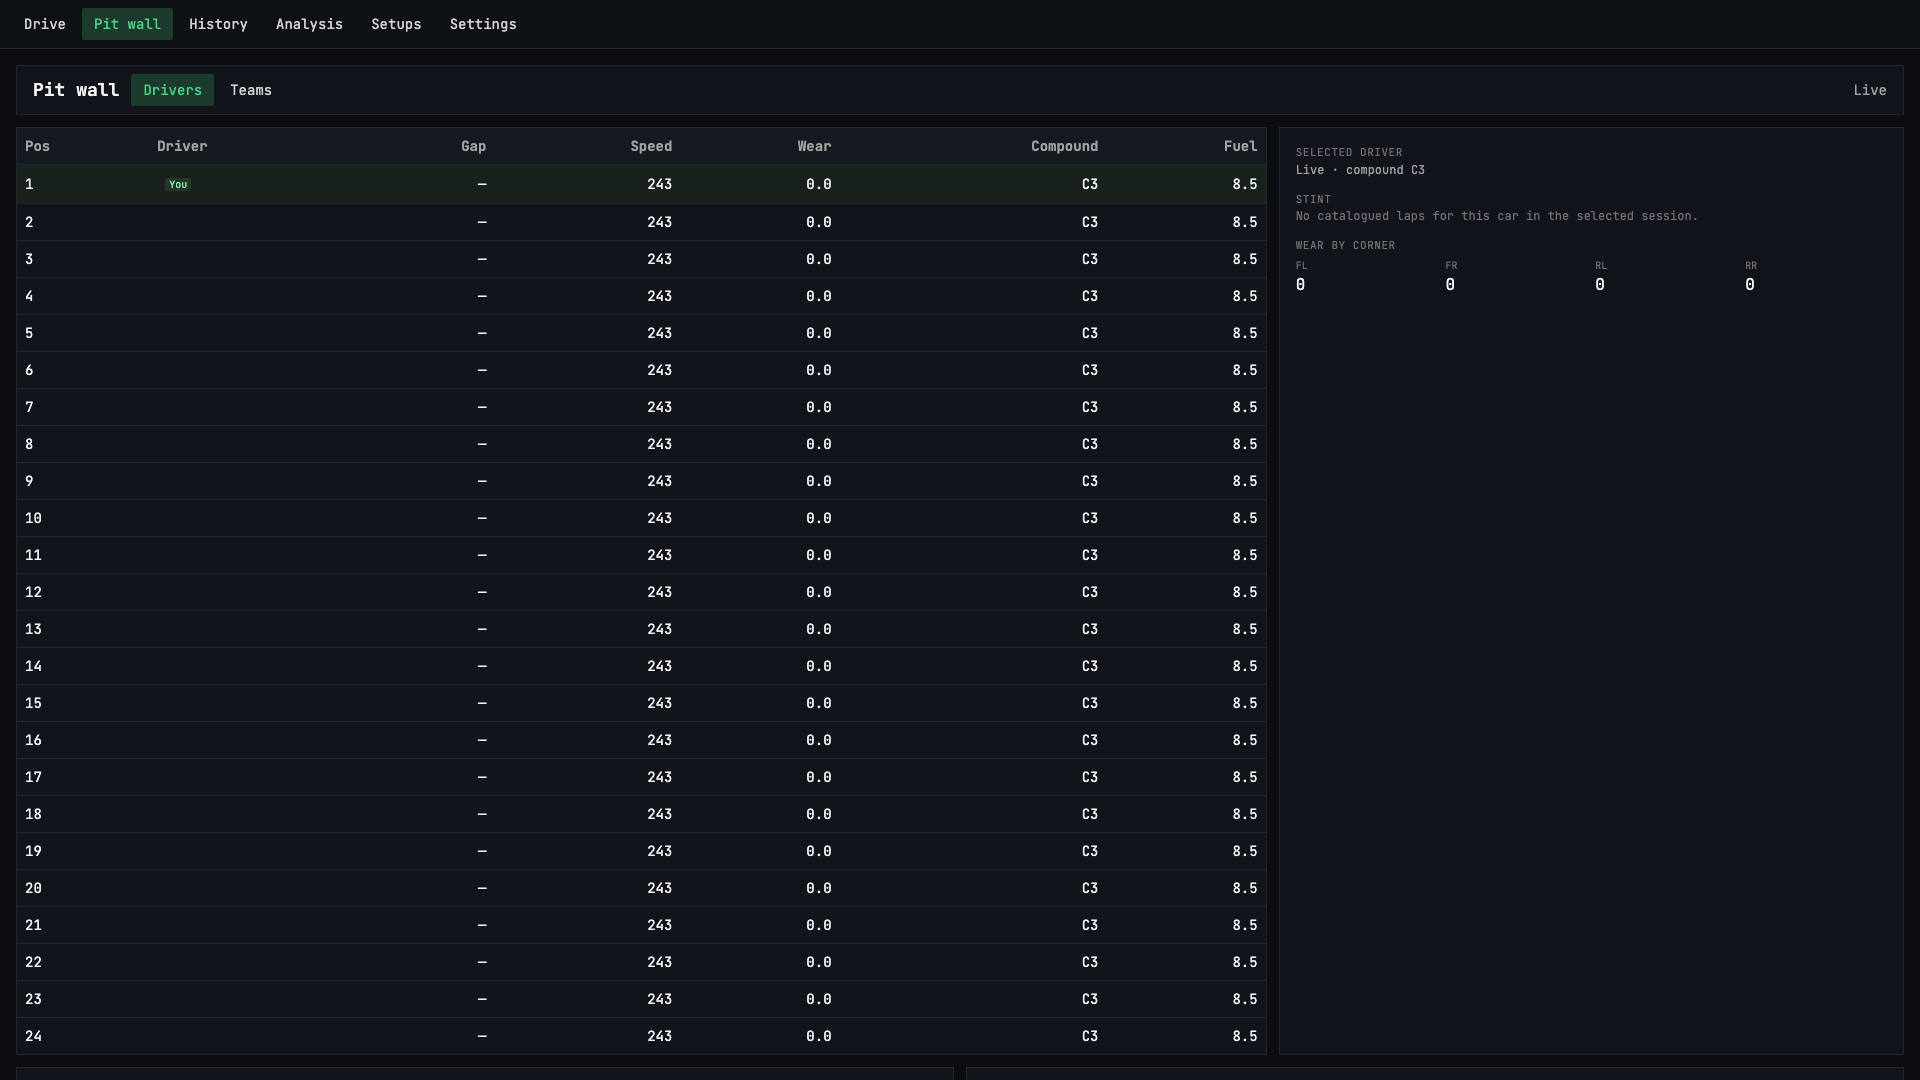
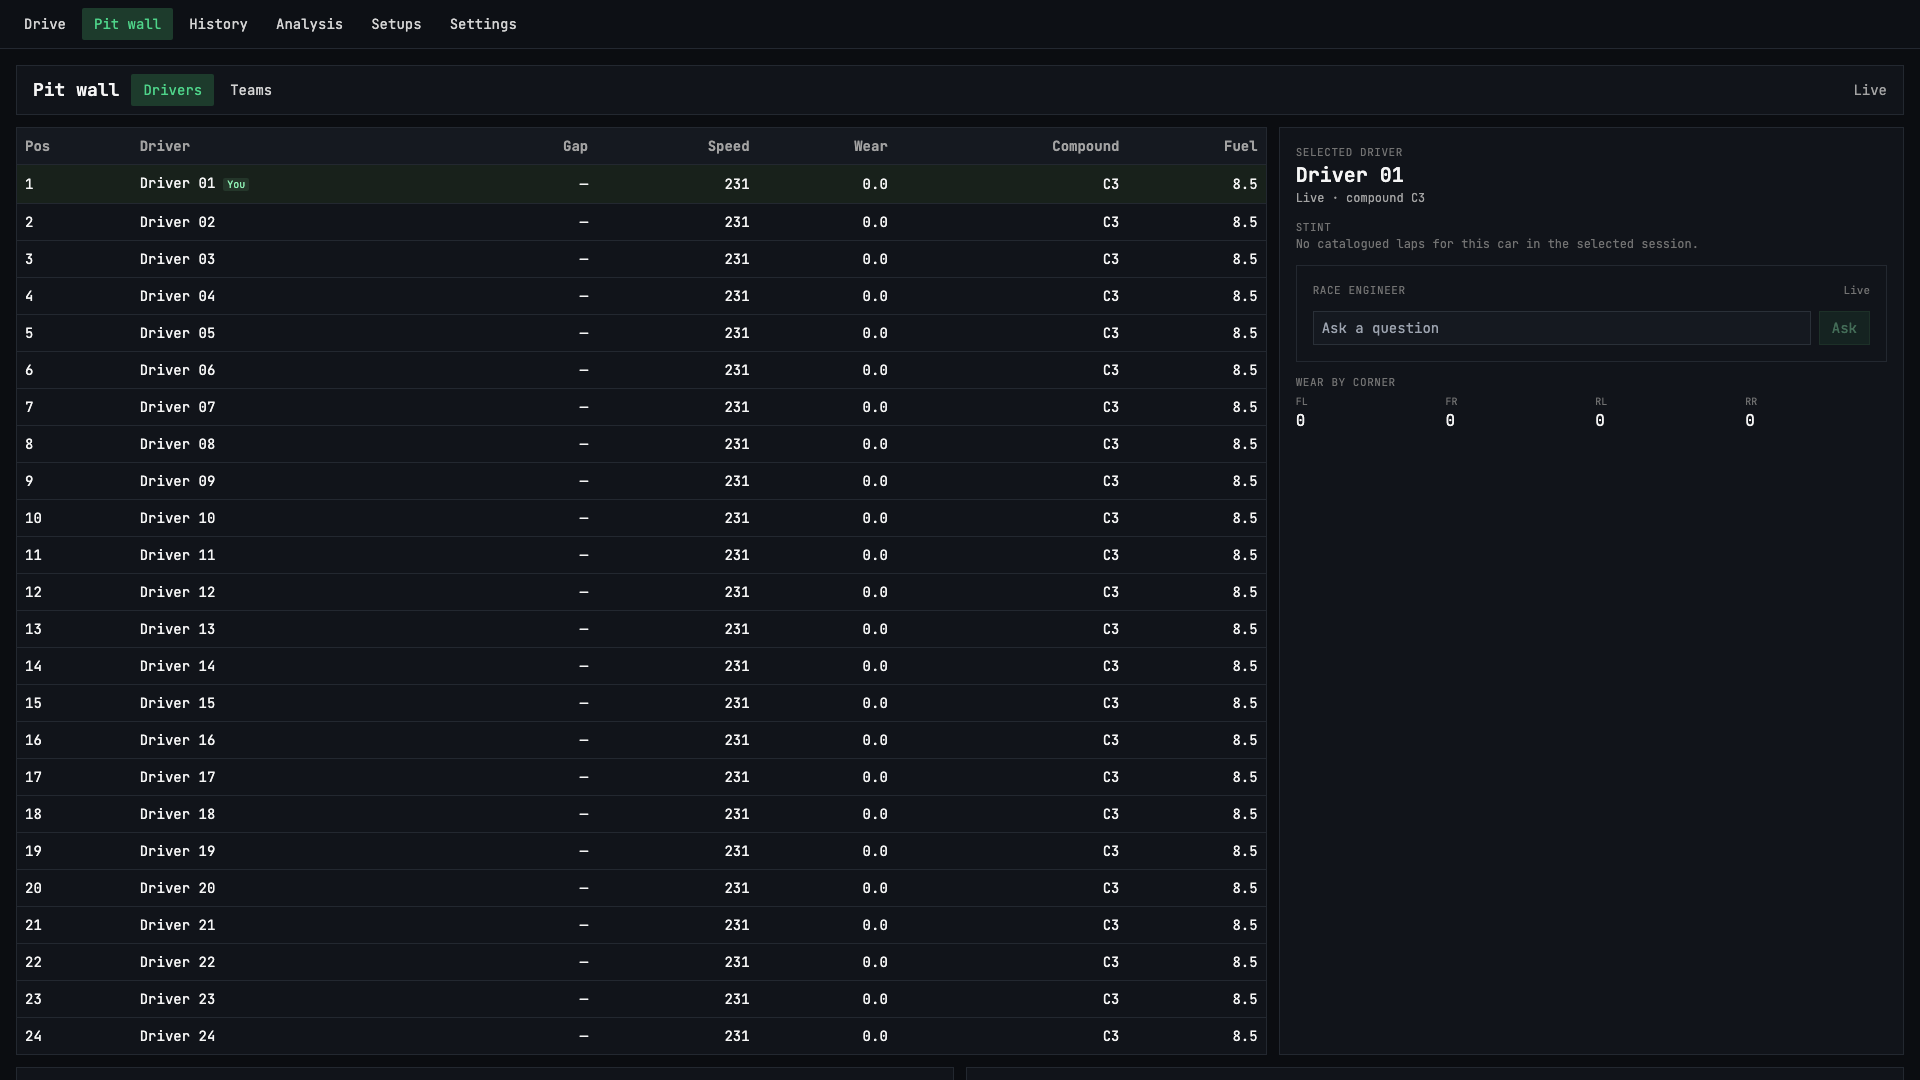
feat: engineer card in the pit wall; synthetic grid names

diff --git a/race_engineer_hub/src/components/EngineerCard.tsx b/race_engineer_hub/src/components/EngineerCard.tsx
@@ -1,0 +1,122 @@
+/* eslint-disable @typescript-eslint/no-explicit-any */
+import { useEffect, useState } from "react";
+import { api, metric, text, useLive } from "@/lib/live";
+
+type Invocation = {
+  id: string; profile: string; status: string; notification_disposition: string;
+  output: { driver_message: string | null; decision: string; urgency: string } | null;
+  error: { code: string; message: string } | null;
+};
+
+/** Live engineer requests, recent invocations and alert acknowledgment. */
+export function EngineerCard() {
+  const s = useLive();
+  const [draft, setDraft] = useState("");
+  const [items, setItems] = useState<Invocation[]>([]);
+  const [error, setError] = useState("");
+  const [busy, setBusy] = useState(false);
+
+  useEffect(() => {
+    if (!s.context) return;
+    const load = () =>
+      api<any>("/engineer/invocations?limit=5")
+        .then((d) => setItems(d.items ?? []))
+        .catch(() => null);
+    load();
+    const id = setInterval(load, 5000);
+    return () => clearInterval(id);
+  }, [s.context?.session_id]);
+
+  async function ask() {
+    if (!s.context || !draft.trim()) return;
+    setBusy(true);
+    setError("");
+    try {
+      await api<any>("/engineer/requests", {
+        method: "POST",
+        body: JSON.stringify({
+          profile: "live_question",
+          session_id: s.context.session_id,
+          branch_id: s.context.branch_id,
+          observation_seq: String(s.seq),
+          request_text: draft.trim(),
+        }),
+      });
+      setDraft("");
+    } catch (e) {
+      setError(String(e));
+    } finally {
+      setBusy(false);
+    }
+  }
+
+  async function acknowledge(id: string) {
+    const key = id.startsWith("alert-") ? id.slice(6) : id;
+    await api<any>("/alerts/" + encodeURIComponent(key) + "/acknowledge", { method: "POST" }).catch((e) => setError(String(e)));
+  }
+
+  const active = (s.alerts ?? []).filter((a) => a.state === "active");
+
+  return (
+    <section className="border border-[#232830] bg-[#11141a] p-4 space-y-3">
+      <div className="flex items-baseline justify-between">
+        <div className="text-[11px] uppercase tracking-wider text-neutral-500">Race engineer</div>
+        <span className="text-[11px] text-neutral-500">
+          {text(metric(s, "car.speed_mps")) === "—" ? "Waiting for telemetry" : "Live"}
+        </span>
+      </div>
+
+      <form
+        className="flex gap-2"
+        onSubmit={(e) => {
+          e.preventDefault();
+          void ask();
+        }}
+      >
+        <label className="sr-only" htmlFor="engineer-question">Question</label>
+        <input
+          id="engineer-question"
+          value={draft}
+          onChange={(e) => setDraft(e.target.value)}
+          placeholder="Ask a question"
+          maxLength={4000}
+          className="min-w-0 flex-1 border border-[#2a3038] bg-[#151920] px-2 py-1.5 text-sm outline-none focus-visible:border-[#5fd68f]"
+        />
+        <button type="submit" disabled={busy || !s.context || !draft.trim()}
+          className="border border-[#2f5a3d] bg-[#1d3b2c] px-3 py-1.5 text-sm text-[#8ef0b4] focus-visible:outline focus-visible:outline-2 focus-visible:outline-[#5fd68f] disabled:opacity-40">
+          {busy ? "Sending…" : "Ask"}
+        </button>
+      </form>
+      {error ? <p role="alert" className="text-[12px] text-[#f25a5c]">{error}</p> : null}
+      {!s.context ? <p className="text-[12px] text-neutral-500">No active session yet.</p> : null}
+
+      {active.length ? (
+        <ul className="space-y-1">
+          {active.map((a) => (
+            <li key={a.id} className="flex items-start gap-2 text-[13px]">
+              <span className={a.severity === "critical" ? "text-[#f25a5c]" : "text-[#f0a03c]"}>
+                {a.severity === "critical" ? "Critical" : "Caution"}
+              </span>
+              <span className="min-w-0 flex-1 text-neutral-200">{a.summary}</span>
+              <button className="text-[12px] text-neutral-400 underline" onClick={() => acknowledge(a.id)}>
+                Acknowledge
+              </button>
+            </li>
+          ))}
+        </ul>
+      ) : null}
+
+      {items.length ? (
+        <ul className="divide-y divide-[#232830] text-[12px]">
+          {items.map((i) => (
+            <li key={i.id} className="py-1.5">
+              <span className="text-neutral-500">{i.profile.replace("_", " ")} · {i.status}</span>
+              {i.output?.driver_message ? <div className="text-neutral-200">{i.output.driver_message}</div> : null}
+              {i.error ? <div className="text-[#f25a5c]">{i.error.code}: {i.error.message}</div> : null}
+            </li>
+          ))}
+        </ul>
+      ) : null}
+    </section>
+  );
+}

diff --git a/race_engineer_hub/src/pages/Workspaces.tsx b/race_engineer_hub/src/pages/Workspaces.tsx
@@ -3,6 +3,7 @@ import { useCallback, useEffect, useMemo, useState } from "react";
 import { LineChart, Line, ResponsiveContainer, XAxis, YAxis, Tooltip, ReferenceLine } from "recharts";
 import { api, availabilityLabel, metric, text, useLive, value, type Snapshot } from "@/lib/live";
 import { clearSelection, select, useSelection } from "@/lib/selection";
+import { EngineerCard } from "@/components/EngineerCard";
 
 export const nav =
   "px-3 py-1.5 text-sm rounded-sm focus-visible:outline focus-visible:outline-2 focus-visible:outline-[#4fd48a]";
@@ -13,8 +14,7 @@ const wheelLabel: Record<string, string> = { fl: "FL", fr: "FR", rl: "RL", rr: "
 
 function seat(s: Snapshot, i: number): string {
   const name = text(metric(s, "car.driver_name", i));
-  if (name !== "—") return name;
-  return `Car ${i}`;
+  return name && name !== "—" ? name : `Car ${i}`;
 }
 
 function kmh(m: ReturnType<typeof metric>): string {
@@ -215,6 +215,7 @@ export function PitWall() {
               </div>
             )}
           </div>
+          <EngineerCard />
           <div>
             <div className={label}>Wear by corner</div>
             <div className="grid grid-cols-4 gap-2 mt-1">

diff --git a/server/qualification/generator.go b/server/qualification/generator.go
@@ -4,6 +4,7 @@ package qualification
 import (
 	"crypto/sha256"
 	"encoding/binary"
+	"fmt"
 	"hash"
 	"math"
 	"sync"
@@ -131,6 +132,8 @@ func (c *Corpus) build(second, slot int, pid uint8, ord int) []byte {
 		scalar["m_numActiveCars"] = 24
 		for car := 0; car < 24; car++ {
 			cars[car] = map[string]float64{"m_yourTelemetry": 1, "m_teamId": float64(car / 2), "m_driverId": float64(car + 1)}
+			// Illustrative grid names; the stress mix does not model a real entry list.
+			strings[fmt.Sprintf("m_name[%d]", car)] = fmt.Sprintf("Driver %02d", car+1)
 		}
 	case 6:
 		for car := range cars {
